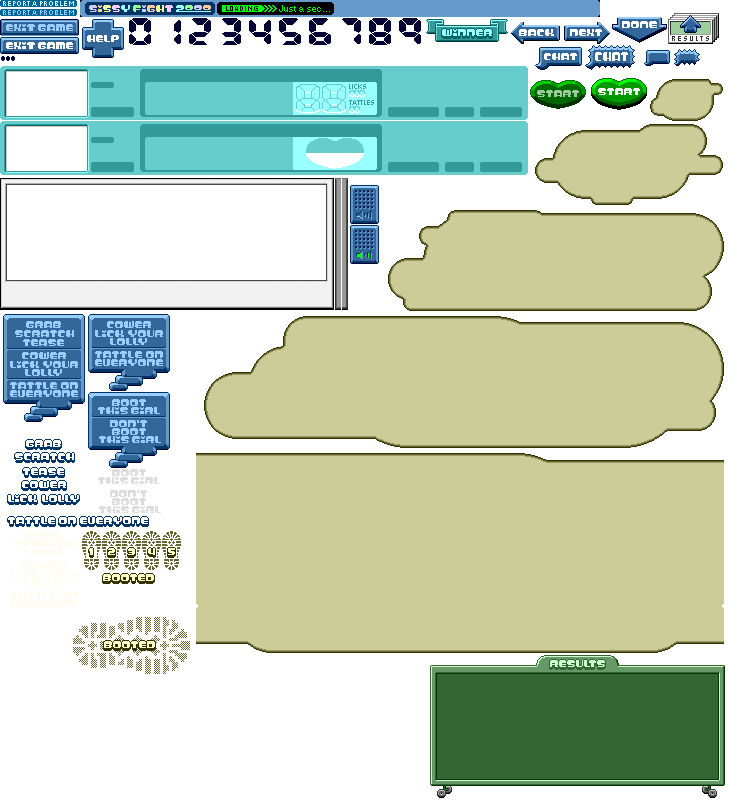
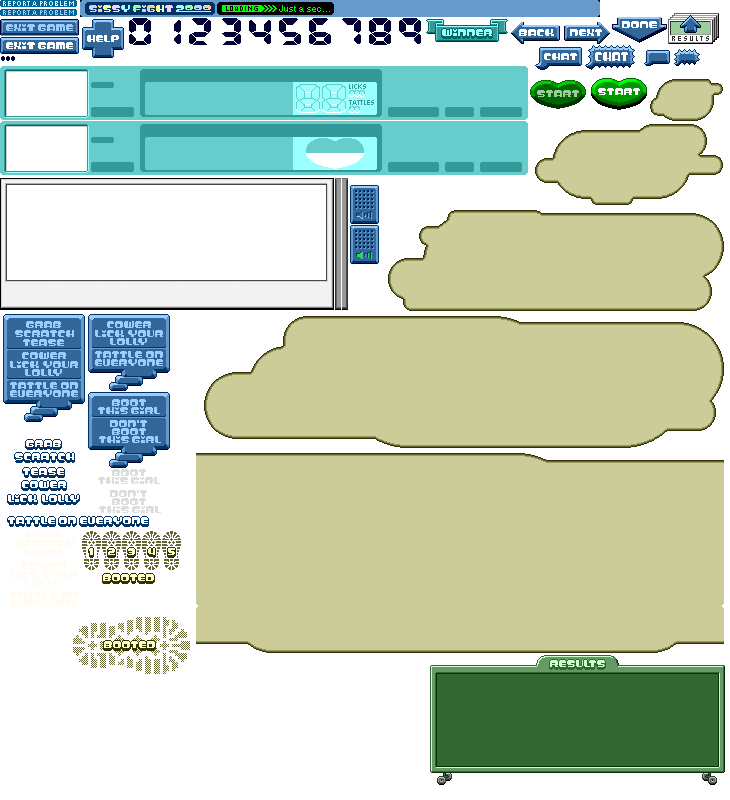
client-game: bypassed problem of chat bubble text overlapping endgame results blackboard by moving blackboard down 13px.

Changed region(s): [[0.5726, 0.9375, 0.9945, 1.0]]

diff --git a/public/client/GameRoom.js b/public/client/GameRoom.js
@@ -66,12 +66,12 @@ var p = GameRoom.prototype = new createjs.Container();
 		this.layers.chalkboardLayer.x = -300;
 		this.items.chalkboard = this.assets.chalkboard;
 		this.items.chalkboard.x = 0;
-		this.items.chalkboard.y = 78;
+		this.items.chalkboard.y = 91;
 		this.layers.chalkboardLayer.addChild(this.items.chalkboard);
 		this.items.chalkboardText = new createjs.Text('', config.getFont('gameResultsChalkboard'), '#ffffff');
 		this.items.chalkboardText.lineWidth = 276;
 		this.items.chalkboardText.x = 10;
-		this.items.chalkboardText.y = 100;
+		this.items.chalkboardText.y = 113;
 		this.layers.chalkboardLayer.addChild(this.items.chalkboardText);
 		
 		
